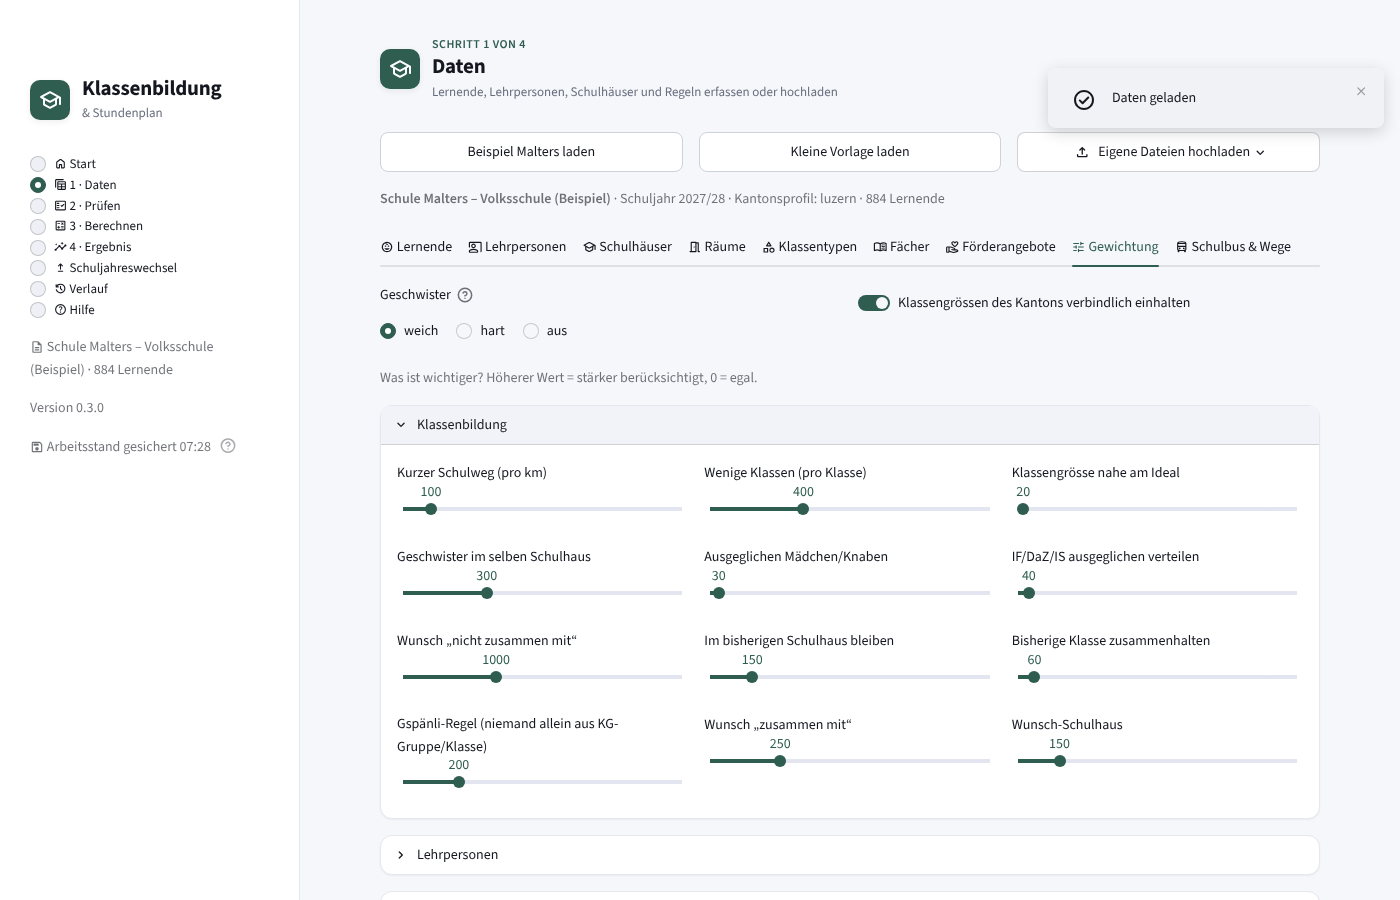
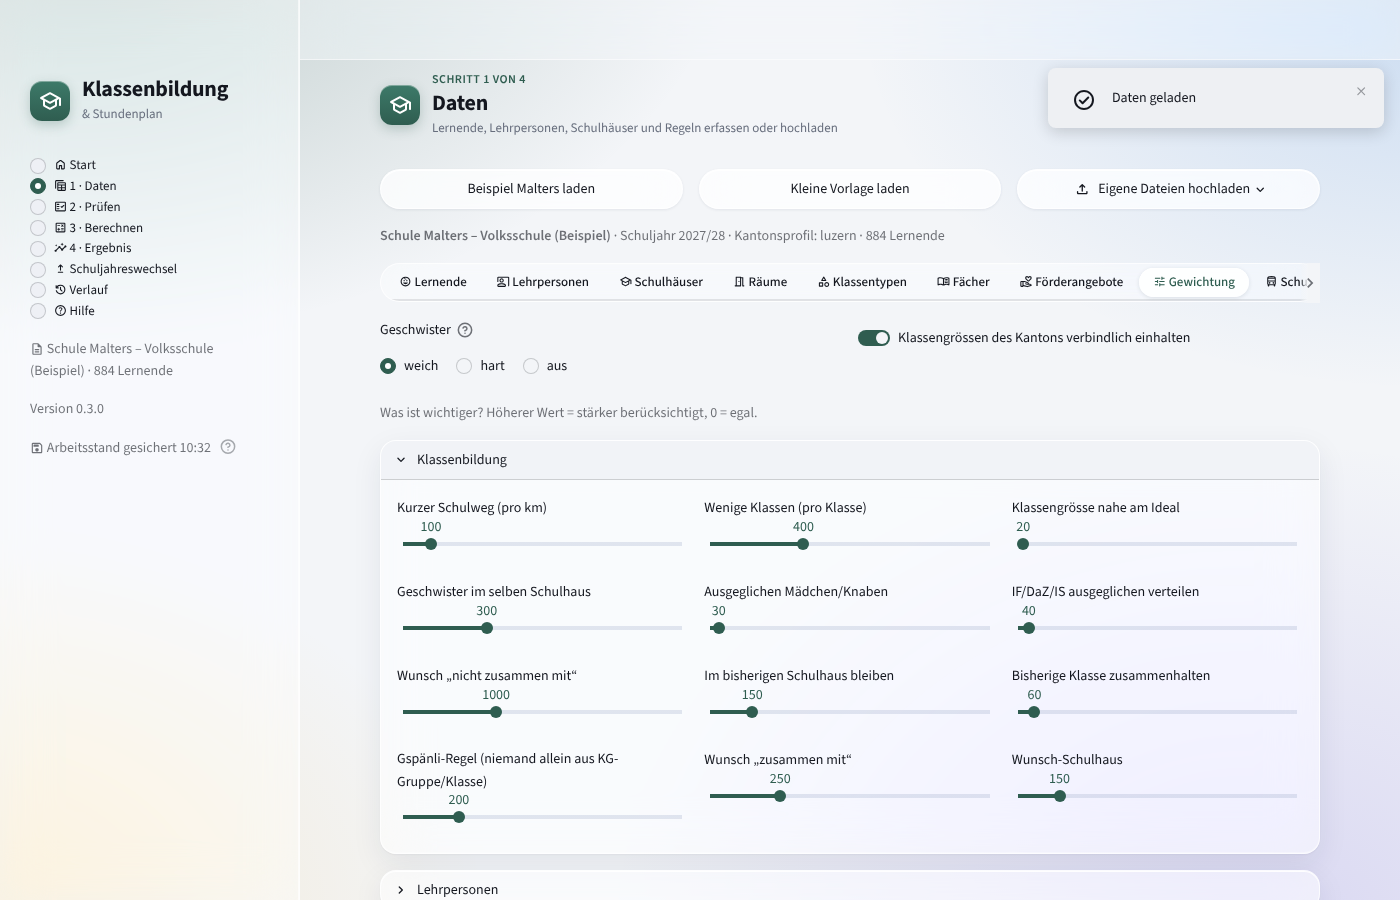
Glas-Design wie site-development
Durchscheinende, weichgezeichnete Flächen mit hellem Rand über sanftem
Farbverlauf, Kapsel-Knöpfe, Reiter als Segment-Schalter, Systemschrift.
Akzent bleibt Wandtafelgrün. Bildschirmfotos neu erzeugt.

Claude-Session: https://claude.ai/code/session_01DuTPgjhWjbXqkScDqKsY48

diff --git a/web/index.html b/web/index.html
@@ -62,7 +62,7 @@
         SKF_KOMPONENTEN_URL: new URL("komponenten/", window.location.href).href,
       },
       idbfsMountpoints: [daten],               // Arbeitsstand und Verlauf bleiben in diesem Browser
-      streamlitConfig: { "client.toolbarMode": "minimal", "theme.primaryColor": "#2f5d50" },
+      streamlitConfig: { "client.toolbarMode": "minimal", "theme.primaryColor": "#2f5d50", "theme.font": "sans-serif" },
     }, document.getElementById("root"));
     const weg = () => { const l = document.getElementById("laden"); if (l) l.remove(); };
     new MutationObserver((_, beob) => {

diff --git a/skf/app.py b/skf/app.py
@@ -44,37 +44,86 @@ BEISPIELE = beispiel_ordner()
 ICON = {"Fehler": ":material/cancel:", "Warnung": ":material/warning:", "Hinweis": ":material/info:"}
 FARBE = {"Fehler": "red", "Warnung": "orange", "Hinweis": "gray"}
 
-# Design-System wie genealogy-store: helle Fläche, weisse Karten, feine Rahmen, Akzent Wandtafelgrün
-STIL = """
-<style>
-.stApp { background:#f6f7fb; }
-.block-container { max-width:1240px; padding-top:2.2rem; }
-[data-testid="stSidebar"] { background:#ffffff; border-right:1px solid #e4e7ee; }
+# Design-System wie site-development („Glas“): durchscheinende, weichgezeichnete Flächen mit hellem Rand über
+# einem sanften Farbverlauf; Knöpfe als Kapseln, Reiter als Segment-Schalter. Akzent bleibt Wandtafelgrün.
+GLAS = {"glass": "rgba(255,255,255,.56)", "glass-strong": "rgba(255,255,255,.74)", "glass-edge": "rgba(255,255,255,.72)",
+        "blur": "blur(24px) saturate(180%)", "accent": "#2f5d50", "accent-2": "#3d7a69", "ink": "#14171f",
+        "muted": "#676e7d",
+        "shadow": "0 10px 30px rgba(22,40,60,.08), 0 1px 2px rgba(22,40,60,.05), inset 0 1px 0 rgba(255,255,255,.9), "
+                  "inset 0 -1px 0 rgba(255,255,255,.3)",
+        "backdrop": "radial-gradient(1100px 700px at 4% -10%, rgba(47,93,80,.30), transparent 62%), "
+                    "radial-gradient(950px 650px at 102% 0%, rgba(42,120,214,.20), transparent 60%), "
+                    "radial-gradient(1050px 800px at 90% 104%, rgba(98,80,214,.18), transparent 62%), "
+                    "radial-gradient(860px 640px at -2% 102%, rgba(237,161,0,.16), transparent 60%), #f3f5f8"}
+STIL = "<style>:root { " + " ".join(f"--skf-{k}:{v};" for k, v in GLAS.items()) + """ }
+.stApp { background:var(--skf-backdrop); background-attachment:fixed; }
+[data-testid="stHeader"] { background:rgba(243,245,248,.5); -webkit-backdrop-filter:var(--skf-blur);
+  backdrop-filter:var(--skf-blur); border-bottom:1px solid rgba(255,255,255,.55); }
+.block-container { max-width:1280px; padding-top:4.4rem; padding-bottom:4rem; }   /* unter der Glas-Kopfzeile */
+div[data-testid="stVerticalBlockBorderWrapper"][class*="border"], [data-testid="stExpander"] details,
+[data-testid="stMetric"], [data-testid="stSidebar"], [data-testid="stAlertContainer"] {
+  background:var(--skf-glass) !important; -webkit-backdrop-filter:var(--skf-blur); backdrop-filter:var(--skf-blur);
+  border:1px solid var(--skf-glass-edge) !important; box-shadow:var(--skf-shadow); }
+div[data-testid="stVerticalBlockBorderWrapper"][class*="border"] { border-radius:22px !important; }
+[data-testid="stExpander"] details { border-radius:16px !important; overflow:hidden; }
+[data-testid="stAlertContainer"] { border-radius:14px !important; }
+[data-testid="stSidebar"] { background:rgba(255,255,255,.45) !important; border-width:0 1px 0 0 !important;
+  box-shadow:inset -1px 0 0 rgba(255,255,255,.6) !important; }
 [data-testid="stSidebar"] [data-testid="stMarkdownContainer"] p { font-size:13px; }
-h1, h2, h3 { letter-spacing:-.01em; color:#14171f; }
+h1, h2, h3 { letter-spacing:-.01em; color:var(--skf-ink); }
 h2 { font-size:21px !important; font-weight:700 !important; }
 h3 { font-size:16px !important; font-weight:600 !important; }
-[data-testid="stVerticalBlockBorderWrapper"]:has(> div > [data-testid="stVerticalBlock"]) { border-radius:12px; }
-div[data-testid="stVerticalBlockBorderWrapper"][class*="border"], [data-testid="stExpander"] details {
-  background:#ffffff; border-color:#e4e7ee !important; border-radius:12px !important;
-  box-shadow:0 1px 2px rgba(20,23,31,.05); }
-[data-testid="stMetric"] { background:#ffffff; border:1px solid #e4e7ee; border-radius:12px; padding:12px 14px;
-  box-shadow:0 1px 2px rgba(20,23,31,.05); }
-[data-testid="stMetricLabel"] p { font-size:12px; color:#676e7d; }
-[data-testid="stMetricValue"] { font-size:24px; font-weight:600; }
-.stButton > button, .stDownloadButton > button { border-radius:8px; font-weight:500; font-size:13px;
-  border-color:#cdd2dd; }
-.stButton > button[kind="primary"] { background:#2f5d50; border-color:#2f5d50; }
-.stButton > button[kind="primary"]:hover { background:#244a40; border-color:#244a40; }
-[data-baseweb="tab-list"] { gap:4px; border-bottom:1px solid #e4e7ee; }
-[data-baseweb="tab"] p { font-size:13px; font-weight:500; }
-[data-testid="stDataFrame"], [data-testid="stDataEditor"] { border:1px solid #e4e7ee; border-radius:8px; overflow:hidden; }
+[data-testid="stMetric"] { border-radius:20px; padding:14px 16px; height:100%; }
+[data-testid="stMetricLabel"] p { font-size:12px; color:var(--skf-muted); font-weight:500; }
+[data-testid="stMetricValue"] { font-size:24px; font-weight:650; color:var(--skf-ink); }
+/* Knöpfe: Kapseln; sekundär auf Glas, primär ein leuchtender Akzent */
+.stButton > button, .stDownloadButton > button, .stFormSubmitButton > button, [data-testid="stPopover"] button {
+  border-radius:999px; font-weight:500; font-size:13px; }
+[data-testid="stBaseButton-secondary"], [data-testid="stBaseButton-secondaryFormSubmit"],
+[data-testid="stPopoverButton"], [data-testid="stPopover"] button {
+  background:var(--skf-glass-strong) !important; border:1px solid var(--skf-glass-edge) !important;
+  -webkit-backdrop-filter:var(--skf-blur); backdrop-filter:var(--skf-blur);
+  box-shadow:0 1px 3px rgba(22,40,60,.08), inset 0 1px 0 #fff; }
+[data-testid="stBaseButton-primary"], [data-testid="stBaseButton-primaryFormSubmit"] {
+  background:linear-gradient(180deg,var(--skf-accent-2) 0%,var(--skf-accent) 100%) !important; color:#fff !important;
+  border:1px solid rgba(255,255,255,.25) !important;
+  box-shadow:0 6px 16px rgba(47,93,80,.28), inset 0 1px 0 rgba(255,255,255,.35); }
+[data-testid="stBaseButton-primary"]:hover, [data-testid="stBaseButton-primaryFormSubmit"]:hover {
+  filter:brightness(1.07); }
+[data-baseweb="input"], [data-baseweb="select"] > div, [data-baseweb="textarea"],
+[data-testid="stNumberInputContainer"], [data-testid="stFileUploaderDropzone"] {
+  background:var(--skf-glass-strong) !important; border-radius:12px !important;
+  border-color:var(--skf-glass-edge) !important; }
+[data-baseweb="input"] input, [data-baseweb="base-input"], [data-baseweb="textarea"] textarea {
+  background:transparent !important; }
+[data-baseweb="popover"] [role="listbox"], [data-baseweb="popover"] ul, [data-testid="stPopoverBody"] {
+  background:var(--skf-glass-strong) !important;
+  -webkit-backdrop-filter:var(--skf-blur); backdrop-filter:var(--skf-blur); border-radius:14px; }
+/* Reiter: ein gläserner Segment-Schalter */
+[data-testid="stTabs"] [role="tablist"] { background:rgba(255,255,255,.42); border:1px solid var(--skf-glass-edge);
+  border-radius:999px; padding:4px; gap:2px; width:fit-content; max-width:100%;
+  -webkit-backdrop-filter:var(--skf-blur); backdrop-filter:var(--skf-blur); }
+[data-testid="stTabs"] [role="tab"] { border-radius:999px; padding:4px 14px; height:auto; }
+[data-testid="stTabs"] [role="tab"][aria-selected="true"] { background:rgba(255,255,255,.9);
+  box-shadow:0 1px 4px rgba(22,40,60,.12), inset 0 1px 0 #fff; }
+[data-testid="stTabs"] [role="tab"] p { font-size:13px; font-weight:500; }
+[data-baseweb="tab-highlight"], [data-baseweb="tab-border"], [data-testid="stTabs"] .react-aria-SelectionIndicator {
+  display:none !important; }   /* Unterstrich: der helle Segment-Knopf zeigt die Auswahl */
+[data-testid="stButtonGroup"] button { border-radius:999px !important; }
+[data-testid="stDataFrame"], [data-testid="stDataEditor"] { border:1px solid var(--skf-glass-edge);
+  border-radius:14px; overflow:hidden; }
 .skf-kopf { display:flex; align-items:center; gap:12px; margin:0 0 14px; }
-.skf-logo { width:40px; height:40px; border-radius:10px; background:#2f5d50; color:#fff; display:grid;
-  place-items:center; box-shadow:0 2px 6px rgba(20,23,31,.07); flex:none; }
-.skf-kopf h1 { font-size:21px; font-weight:700; margin:0; padding:0; line-height:1.2; }
-.skf-kopf p { margin:2px 0 0; color:#676e7d; font-size:13px; }
-.skf-schritt { color:#2f5d50; font-weight:600; font-size:12px; text-transform:uppercase; letter-spacing:.04em; }
+.skf-logo { width:40px; height:40px; border-radius:12px; color:#fff; display:grid; place-items:center; flex:none;
+  background:linear-gradient(180deg,var(--skf-accent-2),var(--skf-accent));
+  box-shadow:0 4px 12px rgba(47,93,80,.25), inset 0 1px 0 rgba(255,255,255,.35); }
+.skf-kopf h1 { font-size:22px; font-weight:700; margin:0; padding:0; line-height:1.2; }
+.skf-kopf p { margin:2px 0 0; color:var(--skf-muted); font-size:13px; }
+.skf-schritt { color:var(--skf-accent); font-weight:600; font-size:12px; text-transform:uppercase; letter-spacing:.04em; }
+@media (max-width: 640px) {
+  .block-container { padding:3.6rem 0.85rem 5rem !important; }
+  [data-testid="stMetric"] { padding:10px 12px; }
+  [data-testid="stTabs"] [role="tablist"] { overflow-x:auto; }
+}
 </style>
 """
 

diff --git a/skf/cli.py b/skf/cli.py
@@ -356,7 +356,8 @@ def _app(args) -> None:
         threading.Timer(3.0, webbrowser.open, args=(url,)).start()
     sys.argv = ["streamlit", "run", str(app), "--server.port", str(args.port), "--server.address", "localhost",
                 "--server.headless", "true", "--browser.gatherUsageStats", "false", "--client.toolbarMode", "minimal",
-                # Design-System wie genealogy-store: helle Fläche, weisse Karten, Akzent Wandtafelgrün
-                "--theme.base", "light", "--theme.primaryColor", "#2f5d50", "--theme.backgroundColor", "#f6f7fb",
+                # Design-System wie site-development (Glas, Systemschrift), Akzent Wandtafelgrün
+                "--theme.base", "light", "--theme.primaryColor", "#2f5d50", "--theme.font", "sans-serif",
+                "--theme.backgroundColor", "#f3f5f8",
                 "--theme.secondaryBackgroundColor", "#eef0f5", "--theme.textColor", "#14171f"]
     sys.exit(streamlit_cli.main())

diff --git a/CHANGELOG.md b/CHANGELOG.md
@@ -7,6 +7,12 @@ Neue Version: `python scripts/version.py 0.2.0`.
 
 ## [Unveröffentlicht]
 
+### Geändert
+- **Glas-Design wie site-development:** durchscheinende, weichgezeichnete Flächen mit hellem Rand über einem
+  sanften Farbverlauf (Kennzahlen, Rahmen, Seitenleiste, Kopfzeile, Meldungen, Eingaben, Menüs, Tabellen),
+  Knöpfe als Kapseln mit leuchtendem Primärknopf, Reiter als gläserner Segment-Schalter, Systemschrift.
+  Akzent bleibt Wandtafelgrün. Bildschirmfotos neu erzeugt.
+
 ## [0.3.0] – 2026-11-02
 
 ### Lizenz
